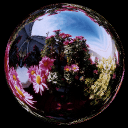
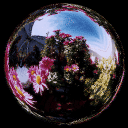
fix input

diff --git a/main/donut.c b/main/donut.c
@@ -135,6 +135,7 @@ void donut_free(void) {
 	GRRLIB_FreeTexture(donutBuffer);
 	tex_free();
 }
+
 void render_frame(f32 A, f32 B, donut_t flavor, bool renderingType, bool manual) {
 	static Mtx base_orientation = {
 		{1.0f, 0.0f, 0.0f, 0.0f},
@@ -155,13 +156,11 @@ void render_frame(f32 A, f32 B, donut_t flavor, bool renderingType, bool manual)
 	f32 c_magnitude = 0.0f;
 	f32 c_direction_x = 0.0f;
 
-	const f32 GC_MAX = 100.0f;
+	if (stick_x > GC_DEADZONE)       norm_x = (f32)(stick_x - GC_DEADZONE) / (100 - GC_DEADZONE);
+	else if (stick_x < -GC_DEADZONE) norm_x = (f32)(stick_x + GC_DEADZONE) / (100 - GC_DEADZONE);
 
-	if (stick_x > DEADZONE)       norm_x = (f32)(stick_x - DEADZONE) / (GC_MAX - DEADZONE);
-	else if (stick_x < -DEADZONE) norm_x = (f32)(stick_x + DEADZONE) / (GC_MAX - DEADZONE);
-
-	if (stick_y > DEADZONE)       norm_y = (f32)(stick_y - DEADZONE) / (GC_MAX - DEADZONE);
-	else if (stick_y < -DEADZONE) norm_y = (f32)(stick_y + DEADZONE) / (GC_MAX - DEADZONE);
+	if (stick_y > GC_DEADZONE)       norm_y = (f32)(stick_y - GC_DEADZONE) / (100 - GC_DEADZONE);
+	else if (stick_y < -GC_DEADZONE) norm_y = (f32)(stick_y + GC_DEADZONE) / (100 - GC_DEADZONE);
 
 	if (norm_x > 1.0f) norm_x = 1.0f; else if (norm_x < -1.0f) norm_x = -1.0f;
 	if (norm_y > 1.0f) norm_y = 1.0f; else if (norm_y < -1.0f) norm_y = -1.0f;
@@ -174,14 +173,14 @@ void render_frame(f32 A, f32 B, donut_t flavor, bool renderingType, bool manual)
 		f32 l_mag = exp.classic.ljs.mag;
 		f32 l_ang = exp.classic.ljs.ang;
 
-		if (l_mag > 0.18f) {
-			f32 rescaled_l_mag = (l_mag - 0.18f) / (1.0f - 0.18f);
+		if (l_mag > DEADZONE) {
+			f32 rescaled_l_mag = (l_mag - DEADZONE) / (1.0f - DEADZONE);
 			norm_x = rescaled_l_mag * sinf(l_ang * (M_PI / 180.0f));
 			norm_y = rescaled_l_mag * cosf(l_ang * (M_PI / 180.0f));
 		}
 
-		if (exp.classic.rjs.mag > 0.20f) {
-			c_magnitude = (exp.classic.rjs.mag - 0.20f) / (1.0f - 0.20f);
+		if (exp.classic.rjs.mag > DEADZONE) {
+			c_magnitude = (exp.classic.rjs.mag - DEADZONE) / (1.0f - DEADZONE);
 			c_direction_x = sinf(exp.classic.rjs.ang * (M_PI / 180.0f)) * c_magnitude;
 		}
 	}
@@ -202,7 +201,7 @@ void render_frame(f32 A, f32 B, donut_t flavor, bool renderingType, bool manual)
 		f32 gc_c_mag = sqrtf((fx * fx) + (fy * fy));
 
 		if (gc_c_mag > (f32)DEADZONE) {
-			c_magnitude = (gc_c_mag - (f32)DEADZONE) / (GC_MAX - (f32)DEADZONE);
+			c_magnitude = (gc_c_mag - (f32)DEADZONE) / (100 - (f32)DEADZONE);
 			c_direction_x = (fx / gc_c_mag) * c_magnitude;
 		}
 	}
@@ -214,11 +213,17 @@ void render_frame(f32 A, f32 B, donut_t flavor, bool renderingType, bool manual)
 	if (manual) {
 		Mtx rot_x, rot_y, incremental_rot;
 
-		guMtxRotDeg(rot_x, 'X', norm_y * DONUT_ROTATION_SPEED);
-		guMtxRotDeg(rot_y, 'Y', norm_x * DONUT_ROTATION_SPEED);
+		// ONLY modify the base orientation if there is actual input!
+		if (norm_x != 0.0f || norm_y != 0.0f) {
+			guMtxRotDeg(rot_x, 'X', norm_y * DONUT_ROTATION_SPEED);
+			guMtxRotDeg(rot_y, 'Y', norm_x * DONUT_ROTATION_SPEED);
 
-		guMtxConcat(rot_x, rot_y, incremental_rot);
-		guMtxConcat(base_orientation, incremental_rot, base_orientation);
+			guMtxConcat(rot_x, rot_y, incremental_rot);
+			guMtxConcat(base_orientation, incremental_rot, base_orientation);
+		} else {
+			// Optional: Periodically re-normalize base_orientation here if it drift-warps
+			// from heavy use, though stopping the conk-per-frame usually cures it.
+		}
 
 		guMtxCopy(base_orientation, model);
 	} else {
@@ -286,8 +291,7 @@ void render_frame(f32 A, f32 B, donut_t flavor, bool renderingType, bool manual)
 	char frameBuffer[DONUT_WIDTH*DONUT_HEIGHT*20 + 1];
 	char *ptr = frameBuffer;
 	s16 last_r = -1, last_g = -1, last_b = -1;
-	const char ramp[] = " -:=+<)%}Ics7fnCo3wmSd6VAXUK8R@Q"; // generated with tools/gen.py
-
+	const char ramp[] = " :+)}rvuj5bhED0Q"; // generated with tools/gen.py
 	print("\x1b[2H");
 	bool nonSpaceCharsPrinted = false;
 	for(u8 j = 0; j < DONUT_HEIGHT; j++) {
@@ -314,7 +318,7 @@ void render_frame(f32 A, f32 B, donut_t flavor, bool renderingType, bool manual)
 				}
 			}
 			// average
-			l_avg >>= 6;
+			l_avg >>= 7;
 			if (r | g | b) {
 				if ((last_r != r) || (last_g != g) || (last_b != b)) {
 					ptr = stpcpy(ptr, "\x1b[38;2;");

diff --git a/main/input.h b/main/input.h
@@ -1,7 +1,9 @@
 #ifndef INPUT_H
 #define INPUT_H
 
-#define DEADZONE 0.20f
+#define DEADZONE (f32)0.20f
+
+#define GC_DEADZONE (u8)(DEADZONE * 100)
 
 #include <ogcsys.h>
 

diff --git a/tools/gen.py b/tools/gen.py
@@ -83,8 +83,8 @@ if __name__ == "__main__":
 
     ramp = []
     num_chars = len(densities)
-    for i in range(32):
-        index = int(i * (num_chars - 1) / 31)
+    for i in range(16):
+        index = int(i * (num_chars - 1) / 15)
         ramp.append(densities[index]['char'])
 
     print('const char ramp[] = "' + "".join(ramp) + '"; // generated with tools/gen.py')